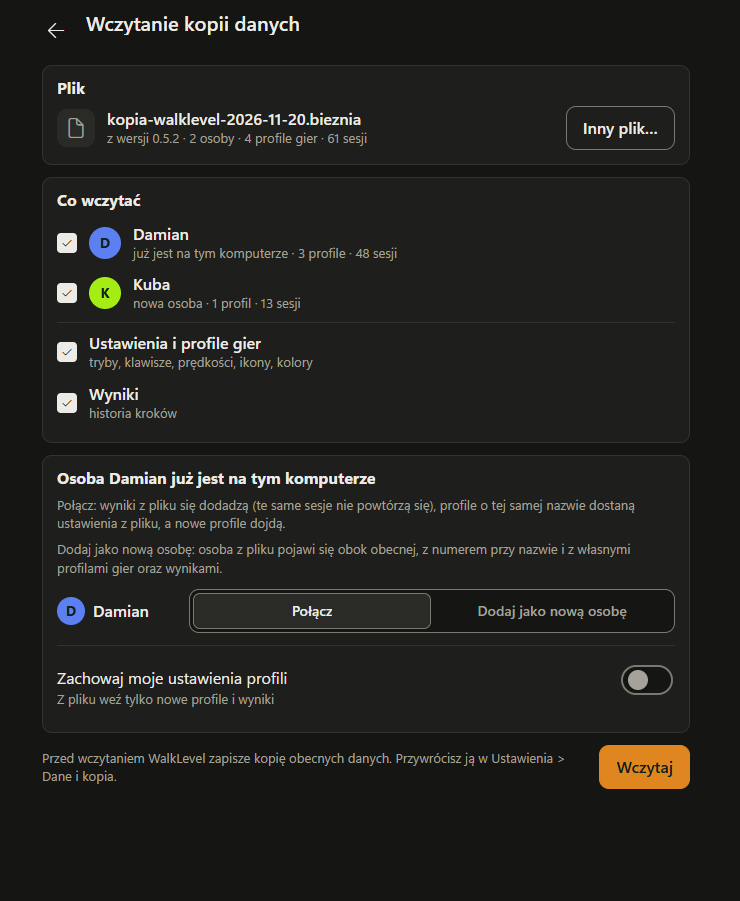
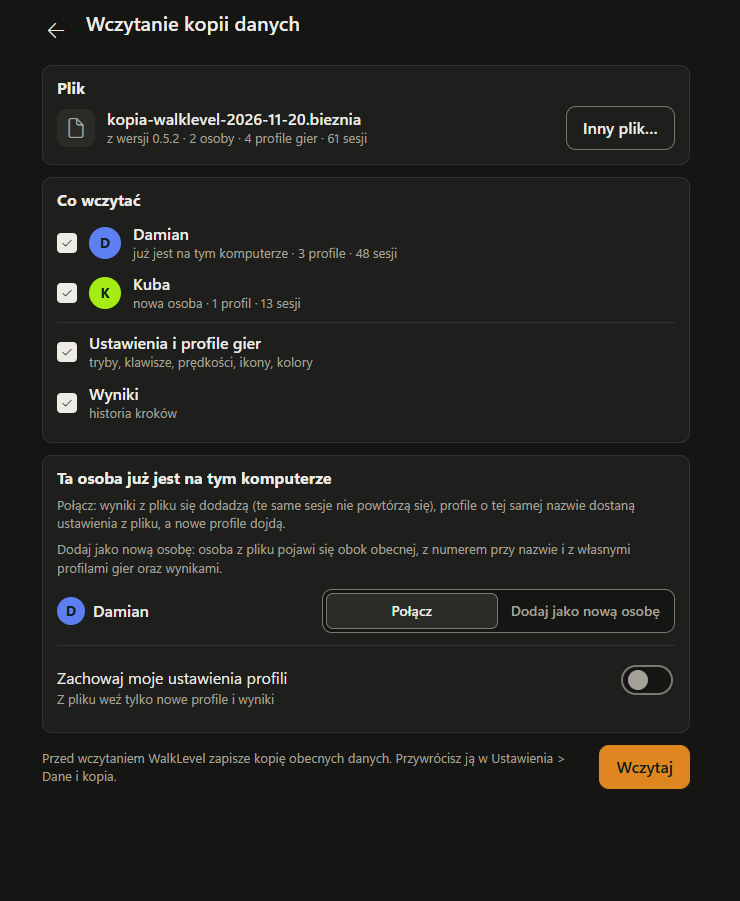
0.6.0 interfejs: kopia danych (zapis i wczytanie) - poprawki po przeglądzie
- Wczytanie: tytuł karty „osoba już jest” w jednej linii (nowy tekst kopia.import.osoba_jest_tytul),
  nazwa osoby w wierszu z wyborem Połącz / Dodaj jako nową; nazwa nie skraca się już do kilku liter
  obok przełącznika segmentowego (740 px).
- Wczytanie: „Zachowaj moje ustawienia” wysyłane tylko, gdy jest łączona osoba.
- Wczytanie: po „Wczytaj” i „Inny plik…” fokus z klawiatury trafia na akcję nowego etapu
  (np. „Gotowe”), a nie na początek dokumentu; bez przesuwania fokusu przy samoczynnym otwarciu okna.
- Zapis: kreska między osobami wyrównana do treści wierszy (jak w wczytaniu).
- Atrapa i test:ui: scenariusz „kopia-wybor” (okno wyboru zamknięte, karta przywracania).

diff --git a/walklevel/src/ekrany/WczytanieKopii.svelte b/walklevel/src/ekrany/WczytanieKopii.svelte
@@ -4,7 +4,7 @@
   // wczytać, osoby, które już są: połącz / dodaj jako nową, zachowanie moich ustawień) -> wynik.
   // Przy wyborze i po wczytaniu: przywrócenie danych sprzed ostatniego wczytania (przytrzymanie).
   // Akcent: tylko główna akcja etapu („Wybierz plik kopii…”, „Wczytaj”, „Gotowe”).
-  import { untrack } from 'svelte';
+  import { tick, untrack } from 'svelte';
   import Strona from '../lib/ui/Strona.svelte';
   import Karta from '../lib/ui/Karta.svelte';
   import Przycisk from '../lib/ui/Przycisk.svelte';
@@ -37,8 +37,17 @@
   let otwiera = $state(false);
   let wczytuje = $state(false);
   let przywraca = $state(false);
+  let etapEl = $state<HTMLElement>();
 
-  async function otworz() {
+  // Przycisk, który miał fokus, znika ze zmianą etapu - fokus z klawiatury trafia na pierwszą
+  // akcję nowego etapu zamiast na początek dokumentu.
+  async function fokusNaEtap() {
+    await tick();
+    if (document.activeElement === document.body) etapEl?.querySelector<HTMLElement>('button:not(:disabled)')?.focus();
+  }
+
+  // fokus=false przy samoczynnym otwarciu okna przy wejściu (nic nie miało fokusu na tym ekranie)
+  async function otworz(fokus = true) {
     if (otwiera) return;
     otwiera = true;
     const p = await wykonaj(api.backupImportOpen());
@@ -52,6 +61,7 @@
     zachowaj = false;
     raport = null;
     etap = 'podglad';
+    if (fokus) void fokusNaEtap();
   }
 
   // Każde wejście na ekran: od początku i od razu okno wyboru pliku („Wczytaj kopię…”).
@@ -63,7 +73,7 @@
         etap = 'wybor';
         podglad = null;
         raport = null;
-        void otworz();
+        void otworz(false);
       }
     });
     byl = teraz;
@@ -81,9 +91,8 @@
   );
   const istniejace = $derived(podglad?.people.filter((o) => o.exists) ?? []);
   const laczone = $derived(istniejace.filter((o) => wybraneOsoby.includes(o.id) && !jakoNowe.includes(o.id)));
-  const tytulKonfliktu = $derived(
-    istniejace.length === 1 ? t('kopia.import.konflikt', { osoba: istniejace[0].name }) : t('kopia.import.osoby_sa'),
-  );
+  // tytuł karty w jednej linii; nazwy osób są w wierszach pod opisem
+  const tytulKonfliktu = $derived(t(istniejace.length === 1 ? 'kopia.import.osoba_jest_tytul' : 'kopia.import.osoby_sa'));
   const brakOsoby = $derived(wybraneOsoby.length === 0);
 
   function przelaczOsobe(id: string, wlacz: boolean) {
@@ -100,7 +109,7 @@
       settings: podglad.hasSettings && ustawienia,
       results: podglad.hasResults && wyniki,
       newPerson: jakoNowe.filter((id) => wybraneOsoby.includes(id)),
-      keepMySettings: ustawienia && zachowaj,
+      keepMySettings: ustawienia && zachowaj && laczone.length > 0,
     };
     wczytuje = true;
     const r = await wykonaj(api.backupImportApply(wybor));
@@ -108,6 +117,7 @@
     if (!r) return;
     raport = r;
     etap = 'wynik';
+    void fokusNaEtap();
   }
 
   async function przywroc() {
@@ -128,115 +138,116 @@
 </script>
 
 <Strona tytul={t('kopia.import.tytul')}>
-  {#if etap === 'wybor'}
-    <Karta tytul={t('kopia.import.plik')}>
-      <p class="opis">{t('kopia.import.wybierz_opis')}</p>
-      <div class="prawo">
+  <div class="etap" bind:this={etapEl}>
+    {#if etap === 'wybor'}
+      <Karta tytul={t('kopia.import.plik')}>
+        <p class="opis">{t('kopia.import.wybierz_opis')}</p>
+        <div class="prawo">
+          <span class="akcja">
+            <Przycisk wariant="glowny" szeroki napis={t('kopia.import.wybierz')} disabled={otwiera} onclick={() => otworz()} />
+          </span>
+        </div>
+      </Karta>
+    {:else if etap === 'podglad' && podglad}
+      <Karta tytul={t('kopia.import.plik')}>
+        <div class="plik">
+          <span class="znak-pliku"><Ikona nazwa="plik" rozmiar={20} /></span>
+          <span class="plik-tekst">
+            <span class="nazwa-pliku jedna-linia dane" title={podglad.file}>{podglad.file}</span>
+            <span class="opis">{plikOpis}</span>
+          </span>
+          <span class="inny">
+            <Przycisk napis={t('kopia.import.inny_plik')} disabled={otwiera || wczytuje} onclick={() => otworz()} />
+          </span>
+        </div>
+      </Karta>
+
+      <Karta tytul={t('kopia.import.co')}>
+        <div class="lista">
+          {#each podglad.people as o (o.id)}
+            <PoleWyboru
+              zaznaczenie={wybraneOsoby.includes(o.id) ? 'tak' : 'nie'}
+              tytul={o.name}
+              opis={t('kopia.import.osoba_opis', {
+                stan: t(o.exists ? 'kopia.import.osoba_jest' : 'kopia.import.osoba_nowa'),
+                profile: o.profiles,
+                sesje: o.sessions,
+              })}
+              onzmiana={(w) => przelaczOsobe(o.id, w)}
+            >
+              {#snippet poczatek()}<Awatar nazwa={o.name} kolor={o.color} />{/snippet}
+            </PoleWyboru>
+          {/each}
+          {#if podglad.hasSettings || podglad.hasResults}
+            <div class="kreska" role="presentation"></div>
+          {/if}
+          {#if podglad.hasSettings}
+            <PoleWyboru zaznaczenie={ustawienia ? 'tak' : 'nie'} tytul={ustawieniaTytul} opis={ustawieniaOpis} onzmiana={(w) => (ustawienia = w)} />
+          {/if}
+          {#if podglad.hasResults}
+            <PoleWyboru zaznaczenie={wyniki ? 'tak' : 'nie'} tytul={wynikiTytul} opis={wynikiOpis} onzmiana={(w) => (wyniki = w)} />
+          {/if}
+        </div>
+      </Karta>
+
+      {#if istniejace.length > 0}
+        <Karta tytul={tytulKonfliktu}>
+          <p class="opis">{t('kopia.import.polacz_opis')}</p>
+          <p class="opis">{t('kopia.import.jako_nowa_opis')}</p>
+          {#each istniejace as o (o.id)}
+            {@const wybrana = wybraneOsoby.includes(o.id)}
+            <div class="konflikt" class:pominieta={!wybrana}>
+              <span class="kto">
+                <Awatar nazwa={o.name} kolor={o.color} rozmiar={28} />
+                <span class="nazwa jedna-linia dane" title={o.name}>{o.name}</span>
+              </span>
+              <span class="tryb">
+                <Segmentowy
+                  opcje={tryby}
+                  wartosc={jakoNowe.includes(o.id) ? 'nowa' : 'polacz'}
+                  etykieta={t('kopia.import.konflikt_dostepnosc', { osoba: o.name })}
+                  disabled={!wybrana}
+                  onzmiana={(w) => ustawTryb(o.id, w)}
+                />
+              </span>
+            </div>
+          {/each}
+          {#if podglad.hasSettings}
+            <div class="kreska" role="presentation"></div>
+            <Przelacznik
+              bind:wlaczony={zachowaj}
+              tytul={zachowajTytul}
+              opis={zachowajOpis}
+              disabled={!ustawienia || laczone.length === 0}
+            />
+          {/if}
+        </Karta>
+      {/if}
+
+      <div class="stopka">
+        <p class="podsumowanie" class:blad={brakOsoby} aria-live="polite">
+          {brakOsoby ? t('kopia.blad.brak_osoby') : t('kopia.import.kopia_przed')}
+        </p>
         <span class="akcja">
-          <Przycisk wariant="glowny" szeroki napis={t('kopia.import.wybierz')} disabled={otwiera} onclick={otworz} />
+          <Przycisk wariant="glowny" szeroki napis={t('kopia.import.wczytaj')} disabled={brakOsoby || wczytuje || otwiera} onclick={wczytaj} />
         </span>
       </div>
-    </Karta>
-  {:else if etap === 'podglad' && podglad}
-    <Karta tytul={t('kopia.import.plik')}>
-      <div class="plik">
-        <span class="znak-pliku"><Ikona nazwa="plik" rozmiar={20} /></span>
-        <span class="plik-tekst">
-          <span class="nazwa-pliku jedna-linia dane" title={podglad.file}>{podglad.file}</span>
-          <span class="opis">{plikOpis}</span>
-        </span>
-        <span class="inny">
-          <Przycisk napis={t('kopia.import.inny_plik')} disabled={otwiera || wczytuje} onclick={otworz} />
-        </span>
-      </div>
-    </Karta>
-
-    <Karta tytul={t('kopia.import.co')}>
-      <div class="lista">
-        {#each podglad.people as o (o.id)}
-          <PoleWyboru
-            zaznaczenie={wybraneOsoby.includes(o.id) ? 'tak' : 'nie'}
-            tytul={o.name}
-            opis={t('kopia.import.osoba_opis', {
-              stan: t(o.exists ? 'kopia.import.osoba_jest' : 'kopia.import.osoba_nowa'),
-              profile: o.profiles,
-              sesje: o.sessions,
-            })}
-            onzmiana={(w) => przelaczOsobe(o.id, w)}
-          >
-            {#snippet poczatek()}<Awatar nazwa={o.name} kolor={o.color} />{/snippet}
-          </PoleWyboru>
-        {/each}
-        {#if podglad.hasSettings || podglad.hasResults}
-          <div class="kreska" role="presentation"></div>
-        {/if}
-        {#if podglad.hasSettings}
-          <PoleWyboru zaznaczenie={ustawienia ? 'tak' : 'nie'} tytul={ustawieniaTytul} opis={ustawieniaOpis} onzmiana={(w) => (ustawienia = w)} />
-        {/if}
-        {#if podglad.hasResults}
-          <PoleWyboru zaznaczenie={wyniki ? 'tak' : 'nie'} tytul={wynikiTytul} opis={wynikiOpis} onzmiana={(w) => (wyniki = w)} />
-        {/if}
-      </div>
-    </Karta>
-
-    {#if istniejace.length > 0}
-      <Karta>
-        <h2 class="tytul-karty dane">{tytulKonfliktu}</h2>
-        <p class="opis">{t('kopia.import.polacz_opis')}</p>
-        <p class="opis">{t('kopia.import.jako_nowa_opis')}</p>
-        {#each istniejace as o (o.id)}
-          {@const wybrana = wybraneOsoby.includes(o.id)}
-          <div class="konflikt" class:pominieta={!wybrana}>
-            <span class="kto">
-              <Awatar nazwa={o.name} kolor={o.color} rozmiar={28} />
-              <span class="nazwa jedna-linia dane" title={o.name}>{o.name}</span>
-            </span>
-            <span class="tryb">
-              <Segmentowy
-                opcje={tryby}
-                wartosc={jakoNowe.includes(o.id) ? 'nowa' : 'polacz'}
-                etykieta={t('kopia.import.konflikt_dostepnosc', { osoba: o.name })}
-                disabled={!wybrana}
-                onzmiana={(w) => ustawTryb(o.id, w)}
-              />
-            </span>
-          </div>
-        {/each}
-        {#if podglad.hasSettings}
-          <div class="kreska" role="presentation"></div>
-          <Przelacznik
-            bind:wlaczony={zachowaj}
-            tytul={zachowajTytul}
-            opis={zachowajOpis}
-            disabled={!ustawienia || laczone.length === 0}
-          />
-        {/if}
+    {:else if etap === 'wynik' && raport}
+      <Karta tytul={t('kopia.import.wynik.tytul')}>
+        <SiatkaKafelkow>
+          <KafelekStatystyki tytul={t('kopia.import.wynik.nowe_osoby')} wartosc={liczba(raport.peopleAdded)} />
+          <KafelekStatystyki tytul={t('kopia.import.wynik.polaczone')} wartosc={liczba(raport.peopleMerged)} />
+          <KafelekStatystyki tytul={t('kopia.import.wynik.nowe_profile')} wartosc={liczba(raport.profilesAdded)} />
+          <KafelekStatystyki tytul={t('kopia.import.wynik.nowe_sesje')} wartosc={liczba(raport.sessionsAdded)} />
+        </SiatkaKafelkow>
+        <div class="prawo">
+          <span class="akcja">
+            <Przycisk wariant="glowny" szeroki napis={t('kopia.import.zakoncz')} onclick={wroc} />
+          </span>
+        </div>
       </Karta>
     {/if}
-
-    <div class="stopka">
-      <p class="podsumowanie" class:blad={brakOsoby} aria-live="polite">
-        {brakOsoby ? t('kopia.blad.brak_osoby') : t('kopia.import.kopia_przed')}
-      </p>
-      <span class="akcja">
-        <Przycisk wariant="glowny" szeroki napis={t('kopia.import.wczytaj')} disabled={brakOsoby || wczytuje || otwiera} onclick={wczytaj} />
-      </span>
-    </div>
-  {:else if etap === 'wynik' && raport}
-    <Karta tytul={t('kopia.import.wynik.tytul')}>
-      <SiatkaKafelkow>
-        <KafelekStatystyki tytul={t('kopia.import.wynik.nowe_osoby')} wartosc={liczba(raport.peopleAdded)} />
-        <KafelekStatystyki tytul={t('kopia.import.wynik.polaczone')} wartosc={liczba(raport.peopleMerged)} />
-        <KafelekStatystyki tytul={t('kopia.import.wynik.nowe_profile')} wartosc={liczba(raport.profilesAdded)} />
-        <KafelekStatystyki tytul={t('kopia.import.wynik.nowe_sesje')} wartosc={liczba(raport.sessionsAdded)} />
-      </SiatkaKafelkow>
-      <div class="prawo">
-        <span class="akcja">
-          <Przycisk wariant="glowny" szeroki napis={t('kopia.import.zakoncz')} onclick={wroc} />
-        </span>
-      </div>
-    </Karta>
-  {/if}
+  </div>
 
   {#if etap !== 'podglad' && stan.app?.latestBackup}
     <Karta tytul={t('kopia.import.przed.tytul')}>
@@ -251,8 +262,8 @@
 </Strona>
 
 <style>
-  /* jak tytuł Karty, ale zawijany - w środku nazwa osoby z danych */
-  .tytul-karty { font-size: var(--fs-base); font-weight: var(--fw-bold); line-height: var(--lh-tight); }
+  /* tylko do szukania akcji etapu - karty zostają w kolumnie strony */
+  .etap { display: contents; }
   .opis { font-size: var(--fs-sm); color: var(--text-2); line-height: var(--lh-body); }
 
   .plik {
@@ -289,11 +300,13 @@
     gap: var(--sp-2) var(--sp-3);
     min-width: 0;
   }
-  .kto { display: flex; align-items: center; gap: var(--sp-2); flex: 1 1 120px; min-width: 0; }
+  /* nazwa osoby dostaje część wolnego miejsca (nie skraca się do kilku liter obok przełącznika);
+     w wąskim oknie przełącznik przechodzi pod nazwę na całą szerokość */
+  .kto { display: flex; align-items: center; gap: var(--sp-2); flex: 1 1 200px; min-width: 0; }
   .nazwa { font-weight: var(--fw-semibold); }
   .pominieta .kto { color: var(--text-2); }
   .pominieta .tryb { opacity: 0.6; }
-  .tryb { flex: 999 1 300px; min-width: 0; }
+  .tryb { flex: 1 1 300px; min-width: 0; }
 
   .stopka {
     display: flex;

diff --git a/walklevel/src/lib/atrapa.ts b/walklevel/src/lib/atrapa.ts
@@ -53,6 +53,8 @@ export const SCENARIUSZE: Record<string, Partial<Scenariusz>> = {
   pusto: { konto: false, historia: false, bieznia: 'brak' },
   pierwsze: { pierwsze: true, konto: false, historia: false, bieznia: 'brak' },
   dlugie: { dlugie: true, tryb: 'training', wlaczone: true },
+  // Kopia danych: okno wyboru pliku zamknięte bez wyboru, jest kopia sprzed wczytania (utworzAtrape)
+  'kopia-wybor': {},
 };
 
 function czytajScenariusz(): Scenariusz {
@@ -517,6 +519,8 @@ export function utworzAtrape(): Silnik {
     firstRun: sc.pierwsze, legacy02: false, updatedFrom: null, latestBackup: null,
     accountsEnabled: true, reportEndpoint: true, windowFocused: true,
   };
+  const kopiaWybor = p.get('stan') === 'kopia-wybor';
+  if (kopiaWybor) app.latestBackup = 'przed-importem-20261120-180000';
   const update: K.UpdateView = { available: dlugie ? '0.6.1' : null, busy: false, status: '', installing: false };
   const report: K.ReportView = { busy: false, status: '', lastFile: null, sentNumber: null };
   const model1 = (id: string, name: string, driver: K.DriverId, match: string[], extra: Partial<K.ModelItem> = {}): K.ModelItem => ({
@@ -1113,7 +1117,7 @@ export function utworzAtrape(): Silnik {
       toast(t('kopia.eksport.gotowe', { liczba: s.people, profile: s.profiles, sesje: s.sessions }));
       return s;
     },
-    backup_import_open: () => ({
+    backup_import_open: () => kopiaWybor ? null : ({
       file: 'kopia-walklevel-2026-11-20.bieznia', appVersion: '0.5.2', hasSettings: true, hasResults: true,
       description: 'WalkLevel 0.5.2 · 2 osoby · 4 profile gier · 61 sesji',
       people: [

diff --git a/walklevel/src/ekrany/KopiaDanych.svelte b/walklevel/src/ekrany/KopiaDanych.svelte
@@ -163,7 +163,14 @@
   .lista { display: flex; flex-direction: column; margin-inline: calc(-1 * var(--sp-2)); }
   /* zakres bez znaczenia, gdy wyniki nie są zapisywane */
   .wylaczony { opacity: 0.6; }
-  .osoba + .osoba { margin-top: var(--sp-1); padding-top: var(--sp-1); border-top: 1px solid var(--line); }
+  /* kreska między osobami wyrównana do treści wierszy (jak w wczytaniu kopii) */
+  .osoba + .osoba::before {
+    content: '';
+    display: block;
+    height: 1px;
+    margin: var(--sp-1) var(--sp-2);
+    background: var(--line);
+  }
 
   .stopka {
     display: flex;

diff --git a/walklevel/src/lib/teksty-slownik.ts b/walklevel/src/lib/teksty-slownik.ts
@@ -986,4 +986,5 @@ export const SLOWNIK = {
   "kopia.import.przed.tytul": "Dane sprzed wczytania kopii",
   "kopia.import.przed.opis": "Zapisano je przed ostatnim wczytaniem kopii. Przywrócenie cofa to wczytanie i wszystko, co zmieniło się od tamtej chwili, także nowe sesje.",
   "kopia.import.przed.przywroc": "Przywróć te dane",
+  "kopia.import.osoba_jest_tytul": "Ta osoba już jest na tym komputerze",
 } as const;

diff --git a/walklevel/docs/teksty.md b/walklevel/docs/teksty.md
@@ -1456,3 +1456,4 @@ pliku, nie z tego słownika. Przegląd według tych samych zasad:
 | `kopia.import.przed.tytul` | (nowy) | Dane sprzed wczytania kopii | Karta z przywracaniem (gdy jest kopia `przed-importem-*`). |
 | `kopia.import.przed.opis` | (nowy) | Zapisano je przed ostatnim wczytaniem kopii. Przywrócenie cofa to wczytanie i wszystko, co zmieniło się od tamtej chwili, także nowe sesje. | Pod nim przycisk z przytrzymaniem `kopia.import.przed.przywroc`. |
 | `kopia.import.przed.przywroc` | (nowy) | Przywróć te dane | Przycisk z przytrzymaniem w karcie `kopia.import.przed.tytul` (pełny napis `ustawienia.dane.przywroc` nie mieści się w wąskim oknie). |
+| `kopia.import.osoba_jest_tytul` | (nowy) | Ta osoba już jest na tym komputerze | Tytuł karty, gdy w pliku jest jedna taka osoba (tytuł w jednej linii, nazwa osoby w wierszu pod opisem). Zastępuje `kopia.import.konflikt` w tytule karty. |
